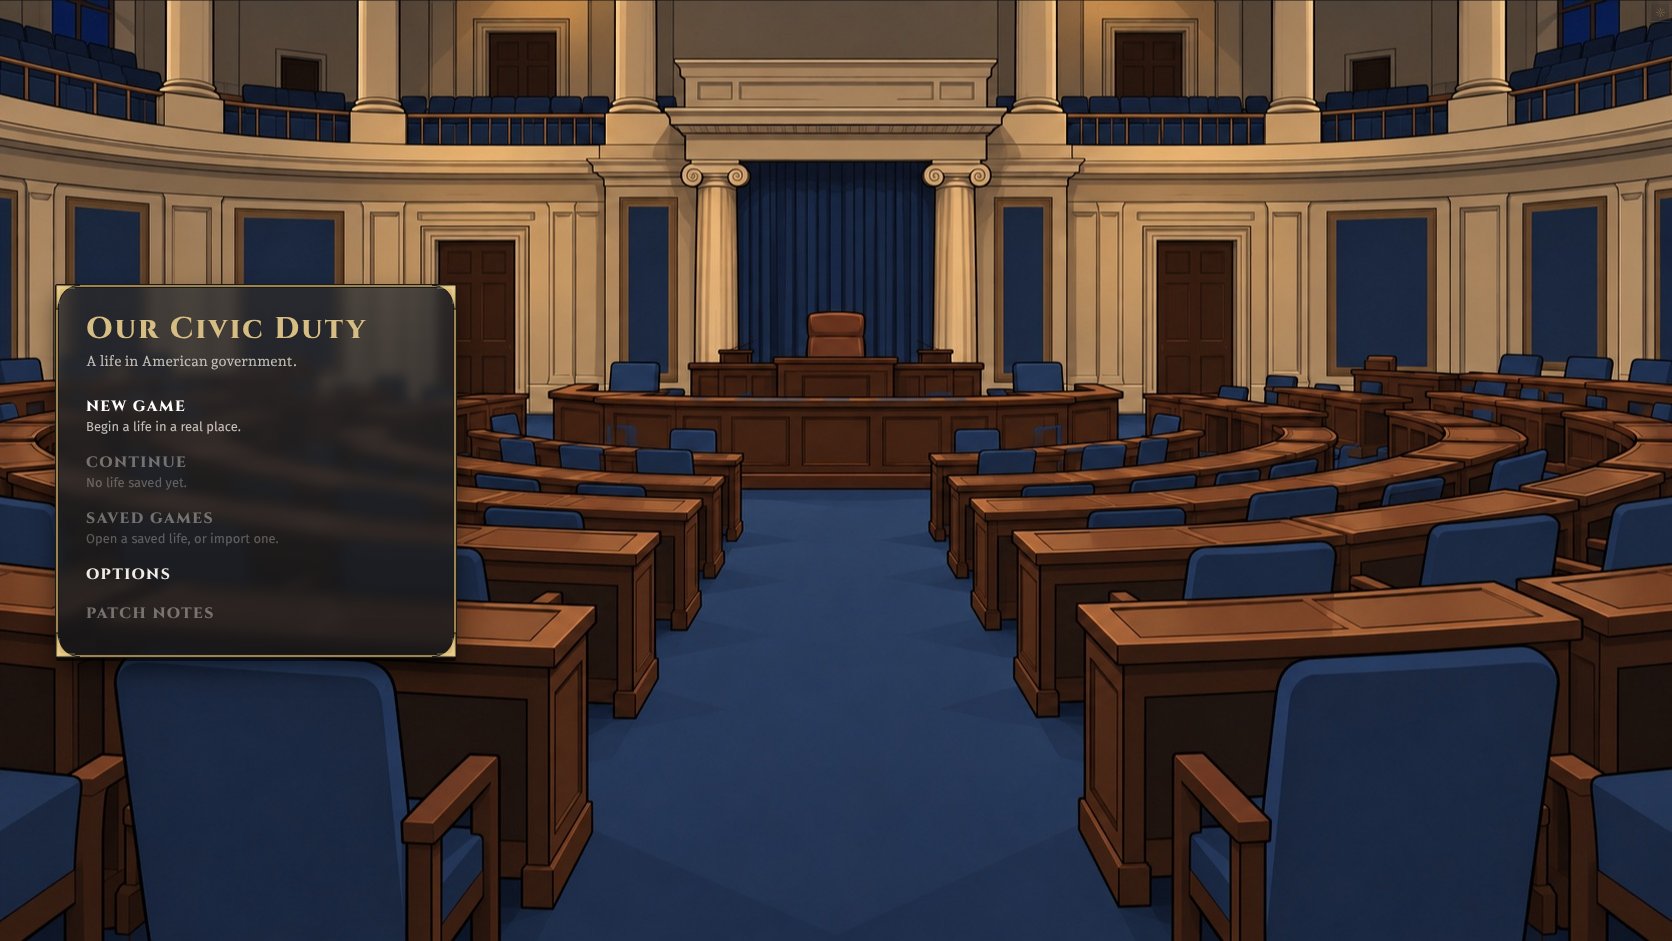
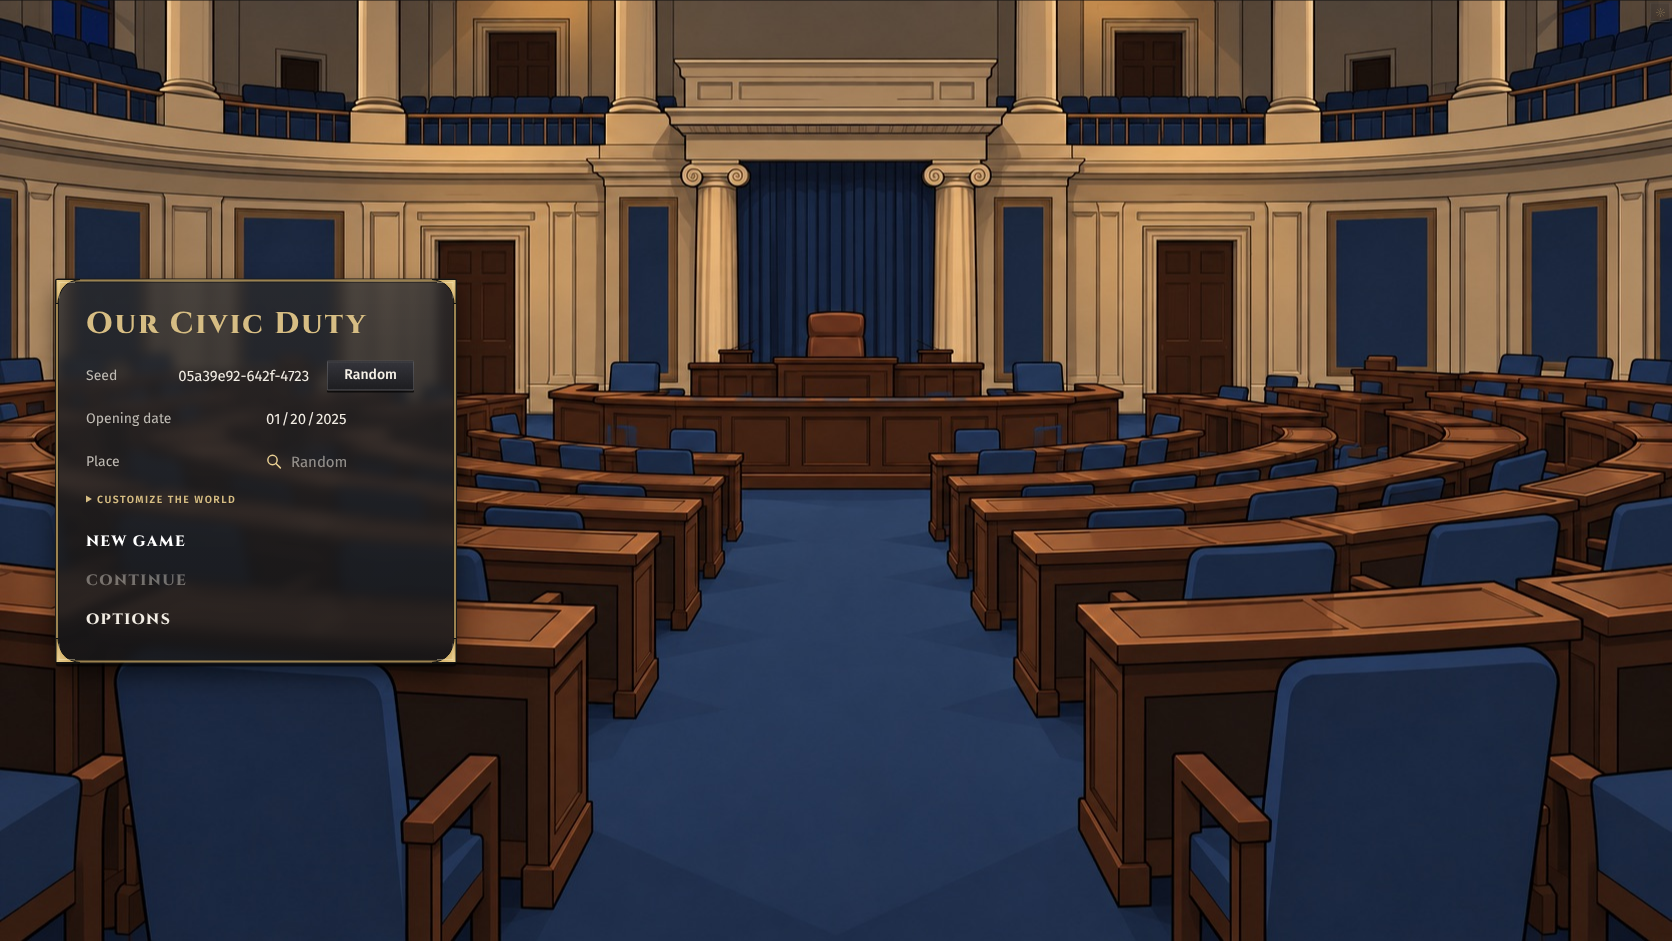
Title: the Oct 13 front's controls back, no subtitle or item lines
The front holds what it held before the Kit 12 rewrite (fd3574c979): Seed
with a Random button, Opening date, Place (Random by default, suggestions as
you type) and Customize the world with the same six settings, in the Kit 13
look. New game starts from the panel; the two-step place flow is removed,
and the scripts that clicked through it are updated. The subtitle, the item
lines and their styles, Saved games and Patch notes are removed. Scene
rotation stays; no figure on the title.

Claude-Session: https://claude.ai/code/session_018wf2994rZTSyb6RouxgtPh

Changed region(s): [[0.0311, 0.339, 0.2799, 0.7088], [0.0311, 0.2774, 0.2799, 0.3082], [0.1555, 0.4315, 0.2177, 0.4623]]

diff --git a/src/bench/play.html b/src/bench/play.html
@@ -78,106 +78,35 @@
 
       <section id="front" class="panel menu" data-testid="title-menu">
         <h1 class="title">Our Civic Duty</h1>
-        <p class="sub">A life in American government.</p>
-        <div id="front-main">
-          <button
-            id="new-life"
-            class="item"
-            type="button"
-            data-testid="new-game"
-          >
-            <b>New game</b><span>Begin a life in a real place.</span>
-          </button>
-          <button
-            id="front-continue"
-            class="item"
-            type="button"
-            data-testid="continue"
-            disabled
-          >
-            <b>Continue</b><span>No life saved yet.</span>
-          </button>
-          <!-- Saved games and Patch notes wait for saves and a notes route. -->
-          <button
-            id="front-saves"
-            class="item"
-            type="button"
-            data-testid="saved-games"
-            disabled
-          >
-            <b>Saved games</b><span>Open a saved life, or import one.</span>
-          </button>
-          <button
-            id="front-options"
-            class="item"
-            type="button"
-            data-testid="title-options"
-          >
-            <b>Options</b>
-          </button>
-          <button
-            id="front-patch-notes"
-            class="item"
-            type="button"
-            data-testid="title-patch-notes"
-            disabled
-          >
-            <b>Patch notes</b>
-          </button>
-          <!-- Quit is the desktop's; a browser tab has none to offer. -->
-          <button
-            id="front-quit"
-            class="item"
-            type="button"
-            data-testid="title-quit"
-            hidden
-          >
-            <b>Quit</b>
-          </button>
-        </div>
-        <!-- New game, second step: where the life begins. -->
-        <div id="front-place" data-testid="new-game-place" hidden>
-          <button
-            id="place-random"
-            class="item"
-            type="button"
-            data-testid="place-random"
-          >
-            <b>Random</b>
-          </button>
-          <label class="field"
-            ><span class="label">Place</span>
-            <input id="place" list="places" autocomplete="off"
-          /></label>
-          <datalist id="places"></datalist>
-          <div class="acts">
-            <button id="place-back" class="action small" type="button">
-              Back
-            </button>
-            <button
-              id="place-begin"
-              class="action primary small"
+        <!-- The front as it stood on Oct 13 (fd3574c979): seed, date, place,
+             and the world's custom settings, all used by New game. -->
+        <div class="field">
+          <label for="seed">Seed</label>
+          <span class="seed-row"
+            ><input id="seed" /><button
+              id="seed-random"
+              class="action small"
               type="button"
-              data-testid="place-begin"
-              disabled
+              data-testid="seed-random"
             >
-              Begin
-            </button>
-          </div>
+              Random
+            </button></span
+          >
         </div>
-        <div class="progress" hidden><span></span></div>
-        <p
-          id="front-status"
-          class="when"
-          role="status"
-          data-testid="loading-line"
-        ></p>
-        <div id="custom" class="dev-only">
-          <p class="label">Customize the world</p>
-          <label class="field">Seed <input id="seed" /></label>
-          <label class="field"
-            >Opening date <input id="date" type="date" readonly
-          /></label>
+        <label class="field"
+          >Opening date <input id="date" type="date" readonly
+        /></label>
+        <label class="field"
+          >Place
+          <input
+            id="place"
+            list="places"
+            placeholder="Random"
+            autocomplete="off"
+        /></label>
+        <datalist id="places"></datalist>
+        <details id="custom" data-testid="customize-world">
+          <summary class="label">Customize the world</summary>
           <label class="field"
             >Town size
             <input
@@ -238,7 +167,51 @@
               step="0.05"
               placeholder="1"
           /></label>
+        </details>
+        <div id="front-main">
+          <button
+            id="new-life"
+            class="item"
+            type="button"
+            data-testid="new-game"
+          >
+            <b>New game</b>
+          </button>
+          <button
+            id="front-continue"
+            class="item"
+            type="button"
+            data-testid="continue"
+            disabled
+          >
+            <b>Continue</b>
+          </button>
+          <button
+            id="front-options"
+            class="item"
+            type="button"
+            data-testid="title-options"
+          >
+            <b>Options</b>
+          </button>
+          <!-- Quit is the desktop's; a browser tab has none to offer. -->
+          <button
+            id="front-quit"
+            class="item"
+            type="button"
+            data-testid="title-quit"
+            hidden
+          >
+            <b>Quit</b>
+          </button>
         </div>
+        <div class="progress" hidden><span></span></div>
+        <p
+          id="front-status"
+          class="when"
+          role="status"
+          data-testid="loading-line"
+        ></p>
       </section>
 
       <nav id="menu" class="panel" hidden>

diff --git a/src/bench/play.css b/src/bench/play.css
@@ -714,11 +714,6 @@ input[type="range"]::-moz-range-thumb {
   letter-spacing: 0.07em;
   color: var(--gold);
 }
-.sub {
-  font: 500 14.5px var(--speech);
-  color: var(--text-2);
-  margin: 6px 0 18px;
-}
 .item {
   display: block;
   width: 100%;
@@ -730,37 +725,38 @@ input[type="range"]::-moz-range-thumb {
   letter-spacing: 0.1em;
   text-transform: uppercase;
 }
-.item span {
-  display: block;
-  font: 400 13px var(--ui);
-  color: var(--text-2);
-  margin-top: 2px;
-}
 #new-life b {
   color: #fff;
 }
 #front-status:empty {
   display: none;
 }
+#front .title {
+  margin-bottom: 14px;
+}
 #custom {
-  margin-top: 8px;
+  margin: 4px 0 10px;
+}
+#custom summary {
+  cursor: pointer;
+  padding: 6px 0;
+}
+.seed-row {
+  display: flex;
+  gap: 8px;
+  align-items: center;
+}
+.seed-row input {
+  width: 150px;
 }
 /* About keeps the version; the title never shows one. */
 .version {
   margin-top: 12px;
   color: var(--text-3);
 }
-/* New game, second step: Random, or a typed place. */
-#front-place .field input {
-  width: 220px;
-}
 /* No chevron at rest: the suggestions open as the player types. */
 #place::-webkit-calendar-picker-indicator {
   display: none !important;
-}
-#front-place .acts {
-  justify-content: space-between;
-  margin-top: 12px;
 }
 /* Progress: a brass frame, the fill running dark to light gold. */
 .progress {

diff --git a/docs/release/changes/play-title-menu-and-scenes.md b/docs/release/changes/play-title-menu-and-scenes.md
@@ -2,7 +2,7 @@
 id: play-title-menu-and-scenes
 impact: patch
 section: Changed
-title: The title menu is the established one again, over a national scene that changes each visit
+title: The title has its seed, place and custom-world controls back, over a national scene that changes each visit
 ---
 
-The title menu is back to its established form: the subtitle, then New game, Continue, Saved games, Options and Patch notes, each with its line, and Quit on the desktop. Behind it a national scene changes with each visit: the White House, the convention, a rally, the House and Senate floors, the debate stage or the Oval Office.
+The title is back to the front it had before: the seed with a Random button, the opening date, the place (Random unless you type one) and Customize the world, then New game, Continue, Options and, on the desktop, Quit. New game starts straight from what is on the panel. Behind it a national scene changes with each visit.
